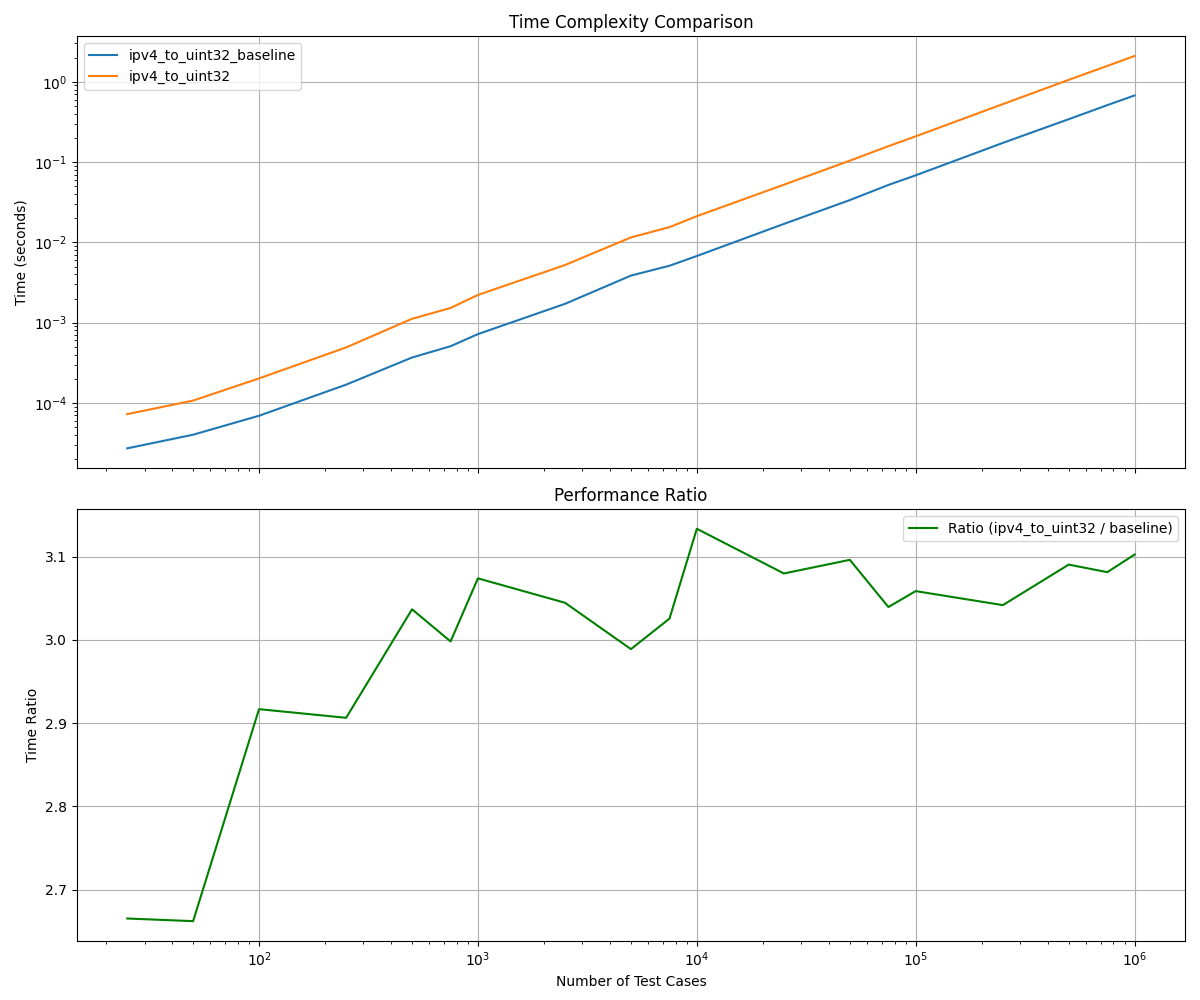
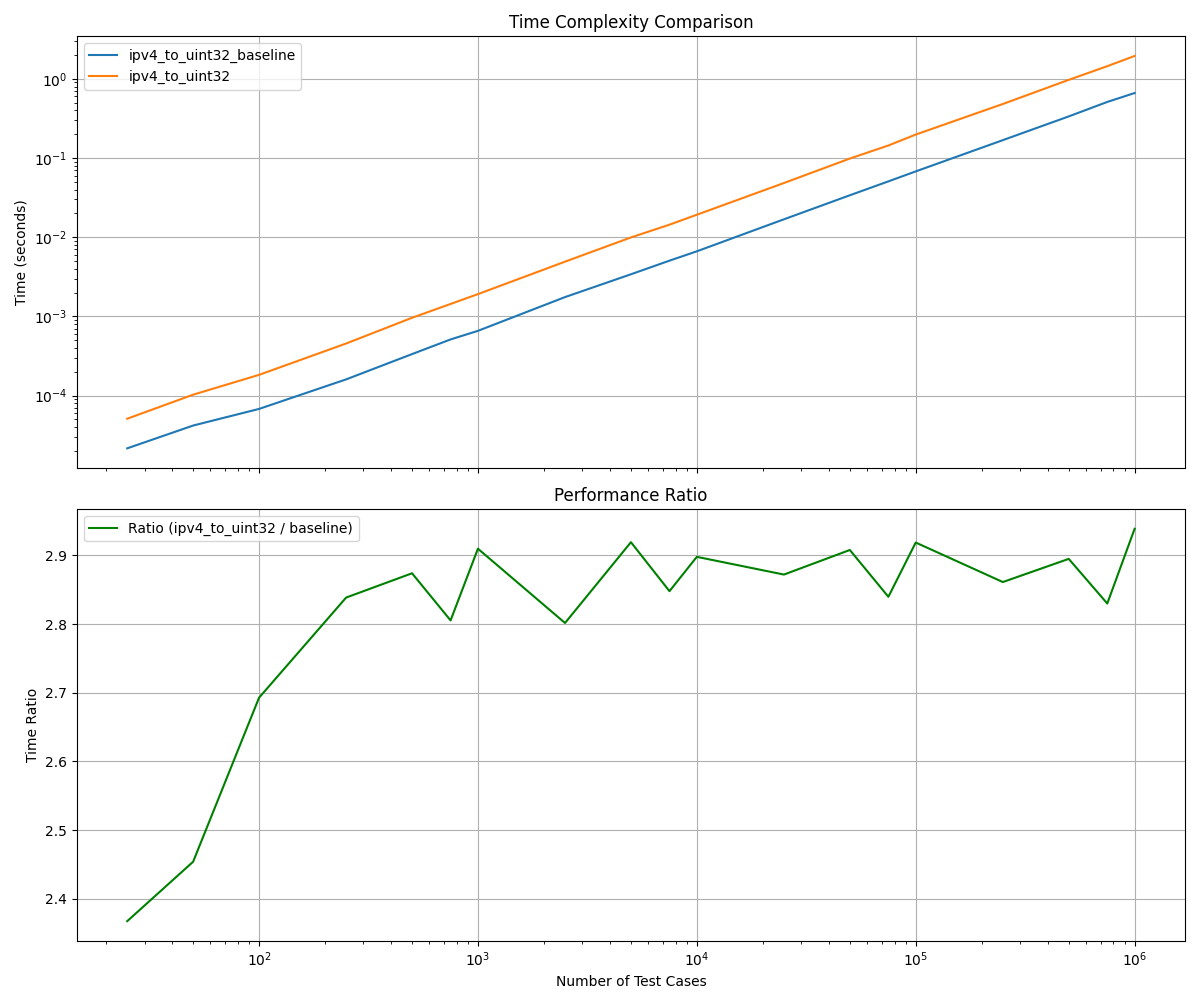
refactor: refactor and centralize IP generation logic
- Add method `generate_valid_ip_with_spaces` to `IPGenerator`
- Add method `generate_invalid_ip_with_spaces` to `IPGenerator`
- Refactor `generate_random_ip` to use the `IPGenerator` class
- Refactor `generate_ip_batch` to use the `IPGenerator` class
- Refactor `generate_ip_dataset` to use the `IPGenerator` class
- Rename `test_random_ips` to `test_random_cases` and refactor to use `IPGenerator`
- Modify `test_perf` to use `IPGenerator.generate_ip_dataset`
- Modify sample size in performance test function
- Un-comment `test_perf` and `test_perf_and_plot_complexity` in main section
- Update `time_complexity.png` binary contents

diff --git a/scripts/24q3/to32/main.py b/scripts/24q3/to32/main.py
@@ -134,86 +134,90 @@ def ipv4_to_uint32(ip_address: str) -> int:
     return uint32_value
 
 
-def generate_valid_ip() -> str:
-    return f"{random.randint(0, 255)}.{random.randint(0, 255)}.{random.randint(0, 255)}.{random.randint(0, 255)}"
+class IPGenerator:
+    @staticmethod
+    def generate_valid_ip() -> str:
+        return f"{random.randint(0, 255)}.{random.randint(0, 255)}.{random.randint(0, 255)}.{random.randint(0, 255)}"
 
+    @staticmethod
+    def generate_valid_ip_with_spaces() -> str:
+        octets: List[str] = [str(random.randint(0, 255)) for _ in range(4)]
+        ip_with_spaces: str = ""
+        for i, octet in enumerate(octets):
+            if i > 0:
+                ip_with_spaces += " " * random.randint(1, 3)
+                ip_with_spaces += "."
+                ip_with_spaces += " " * random.randint(1, 3)
+            ip_with_spaces += octet
+        return ip_with_spaces
 
-def generate_valid_ip_with_spaces() -> str:
-    octets: List[str] = [str(random.randint(0, 255)) for _ in range(4)]
-    ip_with_spaces: str = ""
-    for i, octet in enumerate(octets):
-        if i > 0:
-            ip_with_spaces += " " * random.randint(1, 3)
-            ip_with_spaces += "."
-            ip_with_spaces += " " * random.randint(1, 3)
-        ip_with_spaces += octet
-    return ip_with_spaces
+    @staticmethod
+    def generate_invalid_ip_with_spaces() -> str:
+        octets: List[str] = [str(random.randint(0, 255)) for _ in range(4)]
 
+        invalid_octet_index: int = random.randint(0, 3)
+        invalid_octet: str = octets[invalid_octet_index]
 
-def generate_invalid_ip_with_spaces() -> str:
-    octets: List[str] = [str(random.randint(0, 255)) for _ in range(4)]
+        if len(invalid_octet) == 1:
+            invalid_octet = str(random.randint(3, 9)) + invalid_octet
 
-    invalid_octet_index: int = random.randint(0, 3)
-    invalid_octet: str = octets[invalid_octet_index]
+        insert_pos: int = random.randint(1, len(invalid_octet) - 1)
+        invalid_octet = invalid_octet[:insert_pos] + " " + invalid_octet[insert_pos:]
 
-    if len(invalid_octet) == 1:
-        invalid_octet = str(random.randint(3, 9)) + invalid_octet
+        octets[invalid_octet_index] = invalid_octet
 
-    insert_pos: int = random.randint(1, len(invalid_octet) - 1)
-    invalid_octet = invalid_octet[:insert_pos] + " " + invalid_octet[insert_pos:]
+        ip_with_invalid_spaces: str = ""
+        for i, octet in enumerate(octets):
+            if i > 0:
+                ip_with_invalid_spaces += " " * random.randint(0, 2)
+                ip_with_invalid_spaces += "."
+                ip_with_invalid_spaces += " " * random.randint(0, 2)
+            ip_with_invalid_spaces += octet
 
-    octets[invalid_octet_index] = invalid_octet
+        return ip_with_invalid_spaces
 
-    ip_with_invalid_spaces: str = ""
-    for i, octet in enumerate(octets):
-        if i > 0:
-            ip_with_invalid_spaces += " " * random.randint(0, 2)
-            ip_with_invalid_spaces += "."
-            ip_with_invalid_spaces += " " * random.randint(0, 2)
-        ip_with_invalid_spaces += octet
+    @staticmethod
+    def generate_random_ip() -> Dict[str, Union[str, bool]]:
+        generators: List[Callable[[], str]] = [
+            IPGenerator.generate_valid_ip,
+            IPGenerator.generate_valid_ip_with_spaces,
+            IPGenerator.generate_invalid_ip_with_spaces,
+        ]
+        chosen_generator: Callable[[], str] = random.choice(generators)
+        generated_ip: str = chosen_generator()
 
-    return ip_with_invalid_spaces
+        actual_ip: str = "".join(generated_ip.split())
+        is_valid: bool = chosen_generator != IPGenerator.generate_invalid_ip_with_spaces
 
+        return {"generated_ip": generated_ip, "actual_ip": actual_ip, "is_valid": is_valid}
 
-def generate_random_ip() -> Dict[str, Union[str, bool]]:
-    generators: List[Callable[[], str]] = [
-        generate_valid_ip,
-        generate_valid_ip_with_spaces,
-        generate_invalid_ip_with_spaces,
-    ]
-    chosen_generator: Callable[[], str] = random.choice(generators)
-    generated_ip: str = chosen_generator()
+    @staticmethod
+    def generate_ip_batch(batch_size: int) -> List[Dict[str, Union[str, bool]]]:
+        ip_list: List[Dict[str, Union[str, bool]]] = []
+        for _ in range(batch_size):
+            ip_list.append(IPGenerator.generate_random_ip())
+        return ip_list
 
-    actual_ip: str = "".join(generated_ip.split())
-    is_valid: bool = chosen_generator != generate_invalid_ip_with_spaces
+    @staticmethod
+    def generate_ip_dataset(num_ips: int) -> List[Dict[str, Union[str, bool]]]:
+        num_cpus: int = multiprocessing.cpu_count()
+        batch_size: int = num_ips // num_cpus
 
-    return {"generated_ip": generated_ip, "actual_ip": actual_ip, "is_valid": is_valid}
+        with multiprocessing.Pool(processes=num_cpus) as pool:
+            results: List[List[Dict[str, Union[str, bool]]]] = pool.map(
+                IPGenerator.generate_ip_batch, [batch_size] * num_cpus
+            )
 
-
-def generate_ip_batch(batch_size: int) -> List[Dict[str, Union[str, bool]]]:
-    ip_list: List[Dict[str, Union[str, bool]]] = []
-    for _ in range(batch_size):
-        ip_list.append(generate_random_ip())
-    return ip_list
-
-
-def generate_ip_dataset(num_ips: int) -> List[Dict[str, Union[str, bool]]]:
-    num_cpus: int = multiprocessing.cpu_count()
-    batch_size: int = num_ips // num_cpus
-
-    with multiprocessing.Pool(processes=num_cpus) as pool:
-        results: List[List[Dict[str, Union[str, bool]]]] = pool.map(generate_ip_batch, [batch_size] * num_cpus)
-
-    ip_list: List[Dict[str, Union[str, bool]]] = [ip for batch in results for ip in batch]
-    return ip_list[:num_ips]
+        ip_list: List[Dict[str, Union[str, bool]]] = [ip for batch in results for ip in batch]
+        return ip_list[:num_ips]
 
 
 class TestIPv4ToUint32(unittest.TestCase):
-    def test_random_ips(self):
+    def test_random_cases(self):
         num_tests = MAX_TEST_CASES
 
         for _ in range(num_tests):
-            ip_data = generate_random_ip()
+            ip_data = IPGenerator.generate_random_ip()
             generated_ip = ip_data["generated_ip"]
             actual_ip = ip_data["actual_ip"]
             is_valid = ip_data["is_valid"]
@@ -259,7 +263,7 @@ class TestIPv4ToUint32(unittest.TestCase):
 
 
 def test_perf():
-    ip_data = generate_ip_dataset(MAX_TEST_CASES)
+    ip_data = IPGenerator.generate_ip_dataset(MAX_TEST_CASES)
     ip_list = [ip_info["generated_ip"] for ip_info in ip_data]
     print(f"Processed {len(ip_list)} IP addresses:")
 
@@ -304,7 +308,7 @@ def test_perf_and_plot_complexity():
     ratios: List[float] = []
 
     for case in test_cases:
-        ip_data: List[Dict[str, Union[str, bool]]] = generate_ip_dataset(case)
+        ip_data: List[Dict[str, Union[str, bool]]] = IPGenerator.generate_ip_dataset(case)
         ip_list: List[str] = [ip_info["generated_ip"] for ip_info in ip_data]  # type: ignore
 
         # Increase sample size
@@ -366,6 +370,6 @@ def test_perf_and_plot_complexity():
 
 if __name__ == "__main__":
     MAX_TEST_CASES = 1000000
-
     unittest.main()
-    # test_perf()
+    test_perf()
+    test_perf_and_plot_complexity()
